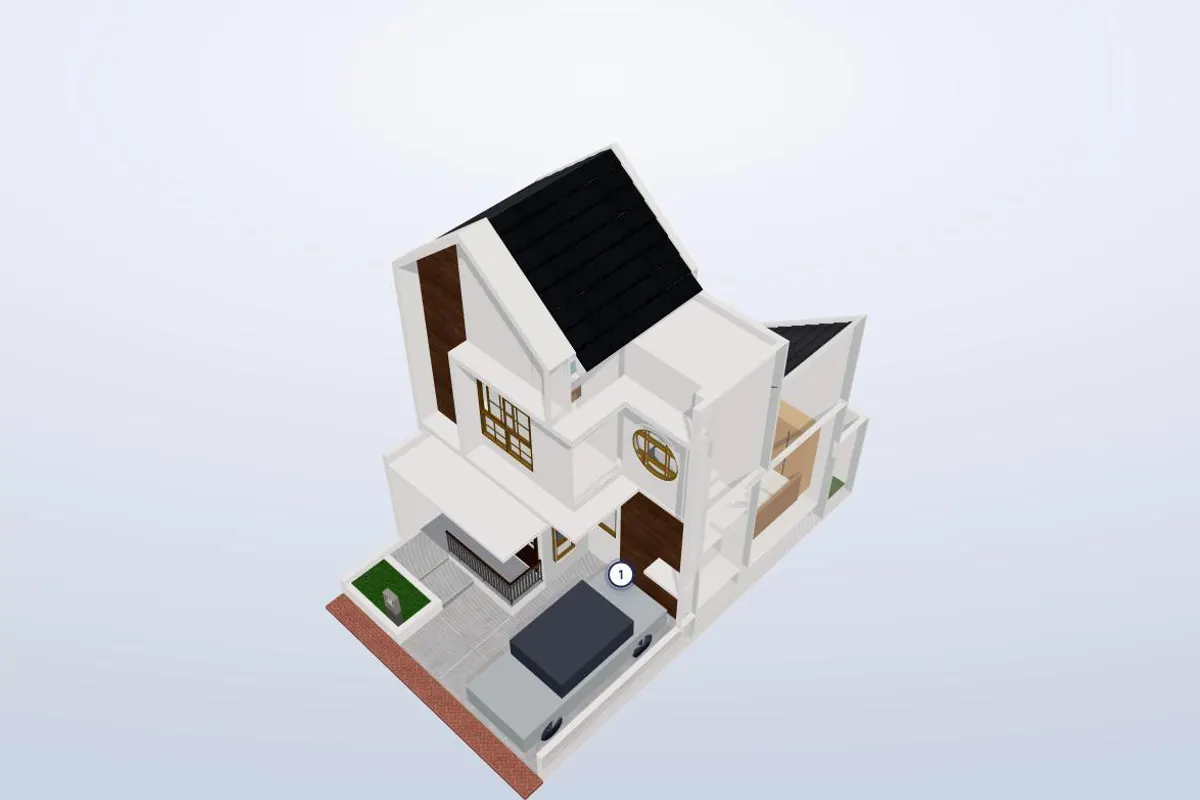
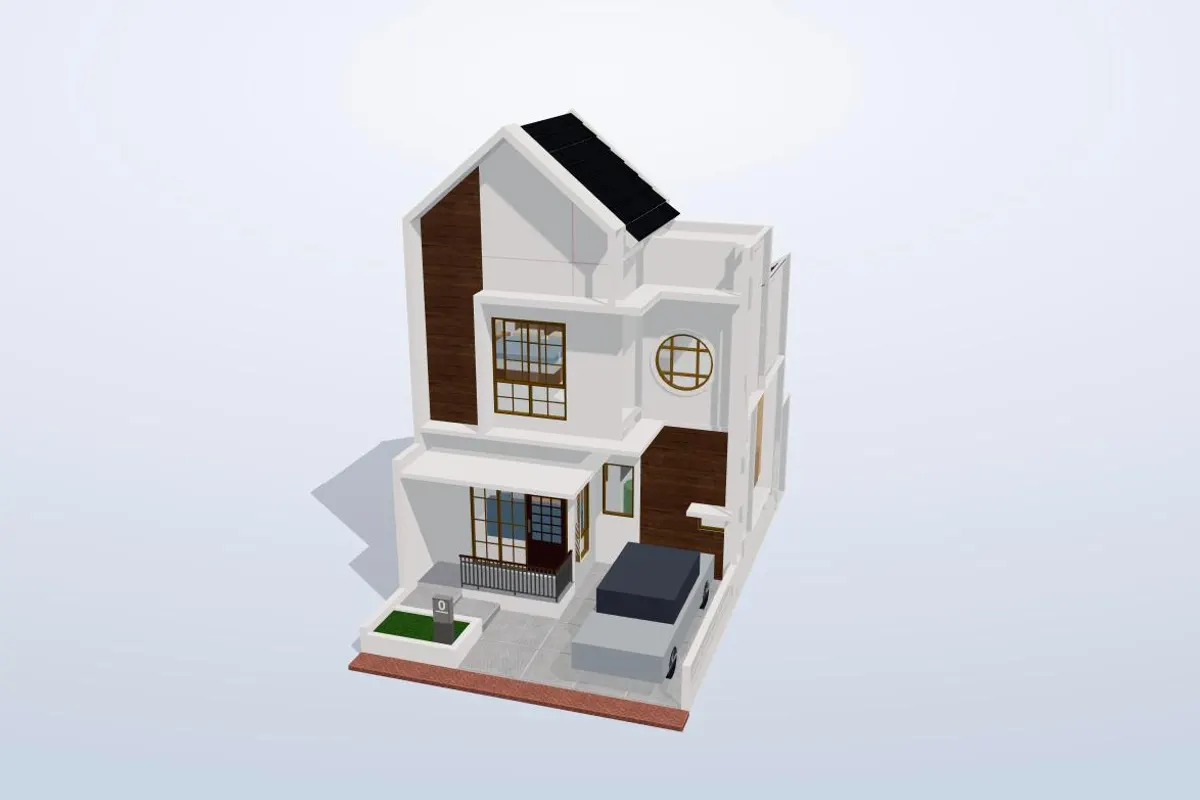
Dollhouse: Rumah utuh tanpa nomor, kamera awal dari depan menampilkan fasad utuh
Nomor titik hanya tampil di tampilan Lantai 1/Lantai 2. Uji halangan GPU dibuang. Poster kartu dibuat ulang.

Changed region(s): [[0.2467, 0.125, 0.74, 1.0]]

diff --git a/kawa-living/3d/dollhouse/dollhouse.js b/kawa-living/3d/dollhouse/dollhouse.js
@@ -279,16 +279,16 @@ export async function mulai(wadah, tipe, opsi = {}) {
   }
 
   /* kamera awal */
-  // Tampilan awal: rumah utuh (atap terpasang, dinding samping dekat kamera tembus pandang) dengan semua titik.
-  // Arah pandang dari depan-kanan atas; jaraknya dipaskan supaya seluruh rumah masuk bingkai,
-  // termasuk saat wadahnya kecil/tegak (kartu Detail Unit di HP).
+  // Tampilan awal: Rumah utuh dilihat dari depan (+z) agak serong kanan dan sedikit dari atas, supaya fasad
+  // terlihat utuh. Jarak dipaskan ke bola pembungkus rumah dan rasio wadah (kartu Detail Unit, termasuk HP).
   const lebar = bb.max.x - bb.min.x, dalam = bb.max.z - bb.min.z, tinggi = bb.max.y - bb.min.y;
   setLantai(0, false);
   {
     const asp = Math.max(0.5, (wadah.clientWidth || 3) / (wadah.clientHeight || 2));
     const r = 0.5 * Math.hypot(lebar, dalam, tinggi);
-    const jarak = Math.min(kontrol.maxDistance, r / Math.sin(THREE.MathUtils.degToRad(kamera.fov / 2)) / Math.min(1, asp) * 0.96);
-    const arah = new THREE.Vector3(lebar * 0.9, 8.5, dalam * 0.55).normalize();
+    const jarak = Math.min(kontrol.maxDistance, r / Math.sin(THREE.MathUtils.degToRad(kamera.fov / 2)) / Math.min(1, asp) * 1.0);
+    const arah = new THREE.Vector3(0.32, 0.36, 1).normalize();
+    kontrol.target.y = bb.min.y + tinggi * 0.4; // fokus agak bawah: halaman depan & carport ikut masuk, ada ruang untuk tombol lantai
     kamera.position.copy(kontrol.target).addScaledVector(arah, jarak);
   }
   kontrol.update();
@@ -322,7 +322,7 @@ export async function mulai(wadah, tipe, opsi = {}) {
     });
     ed.querySelector('.salin').addEventListener('click', () => navigator.clipboard.writeText(log.value));
     ed.querySelector('.hapus').addEventListener('click', () => { log.value = ''; });
-    window.DH = { scene, kamera, kontrol, rumah, bb, data, setLantai, THREE, bidang, renderer, pins, bufDalam: () => bufDalam };
+    window.DH = { scene, kamera, kontrol, rumah, bb, data, setLantai, THREE, bidang, renderer, pins };
   }
 
   /* ukuran & loop; berhenti menggambar saat tidak terlihat di layar */
@@ -335,65 +335,6 @@ export async function mulai(wadah, tipe, opsi = {}) {
   const io = new IntersectionObserver(([e]) => { terlihat = e.isIntersecting; if (terlihat && hidup && !raf) raf = requestAnimationFrame(gambar); }, { threshold: 0 });
   io.observe(wadah);
   const v = new THREE.Vector3();
-  /* Rumah utuh: titik yang terhalang dinding atau atap dari arah kamera disembunyikan (tampilan per lantai tidak
-     diuji, semua titik lantai itu tampil). Uji lewat GPU: rumah digambar sekali lagi ke target kecil 256x256 dengan
-     shader jarak pandang, lalu jarak permukaan di posisi tiap titik dibandingkan dengan jarak titik ke kamera.
-     Kaca, perabot, dinding samping tembus pandang dan salinan dinding samping tidak ikut digambar. Raycast CPU terlalu
-     berat (model ratusan ribu segitiga). Dihitung ulang hanya saat kamera bergeser > 1 cm, tiap 4 frame. */
-  const TW = 256, TH = 256, JAUH = 60;
-  const targetDalam = new THREE.WebGLRenderTarget(TW, TH, { minFilter: THREE.NearestFilter, magFilter: THREE.NearestFilter });
-  // Jarak pandang (view-space) dikemas ke R,G (16 bit, ±1 mm); A = 1 menandai ada permukaan.
-  const bahanDalam = new THREE.ShaderMaterial({
-    side: THREE.DoubleSide, clipping: true, clippingPlanes: [bidang], // potongan lantai ikut; tanpa menyentuh renderer.clippingPlanes (itu memicu compile ulang semua material)
-    vertexShader: `#include <common>
-#include <clipping_planes_pars_vertex>
-varying float vZ;
-void main() {
-#include <begin_vertex>
-#include <project_vertex>
-#include <clipping_planes_vertex>
-  vZ = -mvPosition.z;
-}`,
-    fragmentShader: `#include <common>
-#include <clipping_planes_pars_fragment>
-varying float vZ;
-void main() {
-#include <clipping_planes_fragment>
-  float d = floor(clamp(vZ / ${JAUH.toFixed(1)}, 0.0, 1.0) * 65535.0);
-  float r = floor(d / 256.0);
-  gl_FragColor = vec4(r / 255.0, (d - r * 256.0) / 255.0, 0.0, 1.0);
-}`,
-  });
-  const bufDalam = new Uint8Array(TW * TH * 4);
-  const meshKaca = []; gltf.scene.traverse(o => { if (o.isMesh && o.material.transparent && o.material.opacity < 1) meshKaca.push(o); });
-  const meshSolid = []; rumah.traverse(o => { if (o.isMesh && o.material.clippingPlanes && o.material.clippingPlanes.length === 2) meshSolid.push(o); });
-  const kameraLalu = new THREE.Vector3(); let frameKe = 0, lantaiLalu = NaN;
-  const warnaBersih = new THREE.Color(); const vv = new THREE.Vector3();
-  function ukurHalangan() {
-    const sembunyi = [...meshKaca, ...meshSolid];
-    sembunyi.forEach(o => { o.visible = false; });
-    const tampakPerabot = perabotGrup.visible, tampakTembus = tembusGrup.visible, tampakAlas = alas.visible;
-    perabotGrup.visible = tembusGrup.visible = alas.visible = false;
-    renderer.getClearColor(warnaBersih); const alfaBersih = renderer.getClearAlpha();
-    renderer.setClearColor(0x000000, 0);
-    scene.overrideMaterial = bahanDalam;
-    renderer.setRenderTarget(targetDalam); renderer.clear(); renderer.render(scene, kamera);
-    renderer.readRenderTargetPixels(targetDalam, 0, 0, TW, TH, bufDalam);
-    renderer.setRenderTarget(null); scene.overrideMaterial = null;
-    renderer.setClearColor(warnaBersih, alfaBersih);
-    sembunyi.forEach(o => { o.visible = true; });
-    perabotGrup.visible = tampakPerabot; tembusGrup.visible = tampakTembus; alas.visible = tampakAlas;
-    kamera.updateMatrixWorld();
-    for (const p of pins) {
-      v.copy(p.pos).project(kamera);
-      const px = Math.min(TW - 1, Math.max(0, Math.round((v.x + 1) / 2 * (TW - 1)))), py = Math.min(TH - 1, Math.max(0, Math.round((v.y + 1) / 2 * (TH - 1))));
-      const i = (py * TW + px) * 4;
-      if (bufDalam[i + 3] < 128) { p.halang = false; continue; }
-      const dPermukaan = (bufDalam[i] * 256 + bufDalam[i + 1]) / 65535 * JAUH;
-      const dTitik = -vv.copy(p.pos).applyMatrix4(kamera.matrixWorldInverse).z;
-      p.halang = dPermukaan < dTitik - 0.3; p.dP = dPermukaan; p.dT = dTitik; p.px = [px, py];
-    }
-  }
   function gambar() {
     raf = 0; if (!hidup) return;
     if (!terlihat) return; // IntersectionObserver menghidupkan lagi
@@ -407,14 +348,11 @@ void main() {
     }
     renderer.render(scene, kamera);
     // Damping membuat posisi kamera bergeser sangat kecil tanpa henti: pakai ambang 1 cm, bukan kesamaan persis.
-    // Hanya di Rumah utuh; tampilan per lantai (potongan 2,2 m) selalu menampilkan semua titik lantai itu.
-    if (lantaiAktif !== 0) { if (lantaiLalu === 0) pins.forEach(p => { p.halang = false; }); lantaiLalu = lantaiAktif; }
-    else if (frameKe++ % 4 === 0 && (lantaiLalu !== 0 || anim || kameraLalu.distanceToSquared(kamera.position) > 1e-4)) { kameraLalu.copy(kamera.position); lantaiLalu = 0; ukurHalangan(); }
     for (const p of pins) {
-      // Rumah utuh (0): semua titik tampil; per lantai: hanya titik lantai itu; mode kamera (-1): tanpa titik.
-      if (lantaiAktif !== 0 && p.ruang.lantai !== lantaiAktif) { p.el.classList.remove('tampak'); continue; }
+      // Titik hanya tampil di tampilan per lantai (potongan 2,2 m), untuk lantai itu saja. Rumah utuh (0) dan mode kamera (-1): tanpa titik.
+      if (p.ruang.lantai !== lantaiAktif) { p.el.classList.remove('tampak'); continue; }
       v.copy(p.pos).project(kamera);
-      if (v.z > 1 || p.halang) { p.el.classList.remove('tampak'); continue; }
+      if (v.z > 1) { p.el.classList.remove('tampak'); continue; }
       p.el.style.transform = `translate(${((v.x + 1) / 2 * lebarPx).toFixed(1)}px, ${((1 - v.y) / 2 * tinggiPx).toFixed(1)}px) translate(-50%,-50%)`;
       p.el.classList.add('tampak');
     }
@@ -424,7 +362,7 @@ void main() {
 
   function hancur() {
     hidup = false; if (raf) cancelAnimationFrame(raf); raf = 0;
-    ro.disconnect(); io.disconnect(); kontrol.dispose(); targetDalam.dispose(); bahanDalam.dispose();
+    ro.disconnect(); io.disconnect(); kontrol.dispose();
     scene.traverse(o => { if (o.geometry) o.geometry.dispose(); const ms = o.material ? (Array.isArray(o.material) ? o.material : [o.material]) : []; ms.forEach(m => { for (const k in m) if (m[k] && m[k].isTexture) m[k].dispose(); m.dispose(); }); });
     renderer.dispose(); renderer.forceContextLoss();
     akar.remove(); if (window.DH && window.DH.renderer === renderer) delete window.DH;

diff --git a/kawa-living/index.html b/kawa-living/index.html
@@ -1227,7 +1227,7 @@
       if (aktif && aktif.panel === p) return;
       var nomor = ++giliran, wadah = p.querySelector('.un__dh-wadah');
       matikan();
-      (modul || (modul = import('./3d/dollhouse/dollhouse.js?v=20261026e')))
+      (modul || (modul = import('./3d/dollhouse/dollhouse.js?v=20261026f')))
         .then(function (m) { if (nomor !== giliran) return null; return m.mulai(wadah, p.dataset.dollhouse); })
         .then(function (v) {
           if (!v) return;

diff --git a/kawa-living/3d/dollhouse/index.html b/kawa-living/3d/dollhouse/index.html
@@ -37,7 +37,7 @@
     <p>Putar dengan seret, cubit untuk zoom, ketuk titik untuk melihat ruangan.</p>
   </div>
   <script type="module">
-    import { mulai } from './dollhouse.js?v=20261026e';
+    import { mulai } from './dollhouse.js?v=20261026f';
     const q = new URLSearchParams(location.search);
     const kamera = Number(q.get('kamera') || 0);
     if (kamera > 0) document.body.classList.add('kamera');
